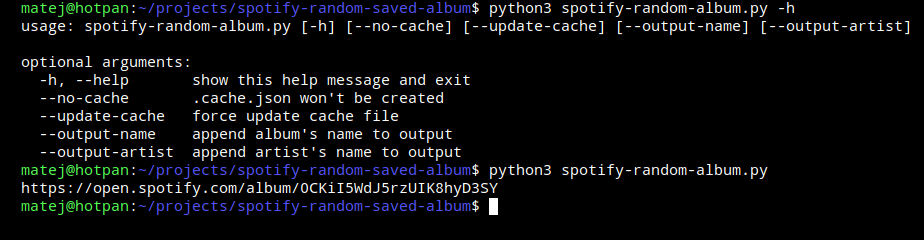
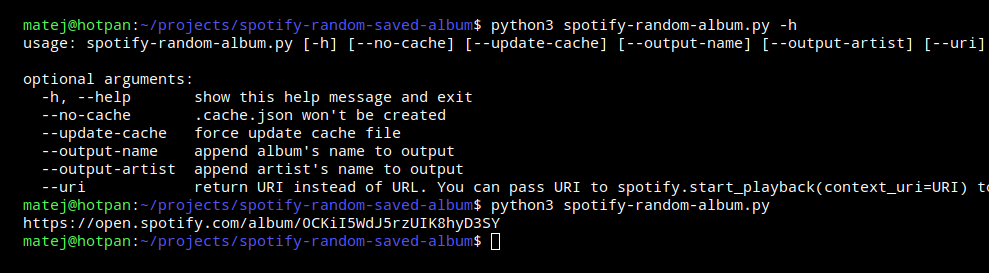
update readme

Changed region(s): [[0.0, 0.2333, 1.0, 0.9333], [0.0, 0.0, 1.0, 0.2042]]

diff --git a/README.md b/README.md
@@ -53,14 +53,18 @@
 
 ## Usage
 ```
-python3 spotify-random-album.py [-h] [--no-cache] [--update-cache] [--output-name] [--output-artist]
+python3 spotify-random-album.py [-h] [--no-cache] [--update-cache]
+                               [--output-name] [--output-artist] [--uri]
 
 optional arguments:
   -h, --help       show this help message and exit
-  --no-cache       cache file won't be created
+  --no-cache       .cache.json won't be created
   --update-cache   force update cache file
   --output-name    append album's name to output
   --output-artist  append artist's name to output
+  --uri            return URI instead of URL. You can pass URI to
+                   spotify.start_playback(context_uri=URI) to play the album
+                   instantly (premium required)
 ```
 ### Notes
 
